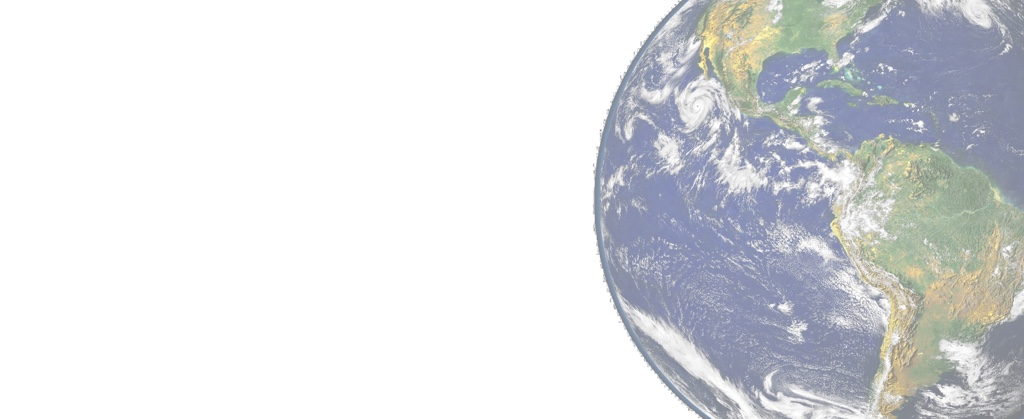
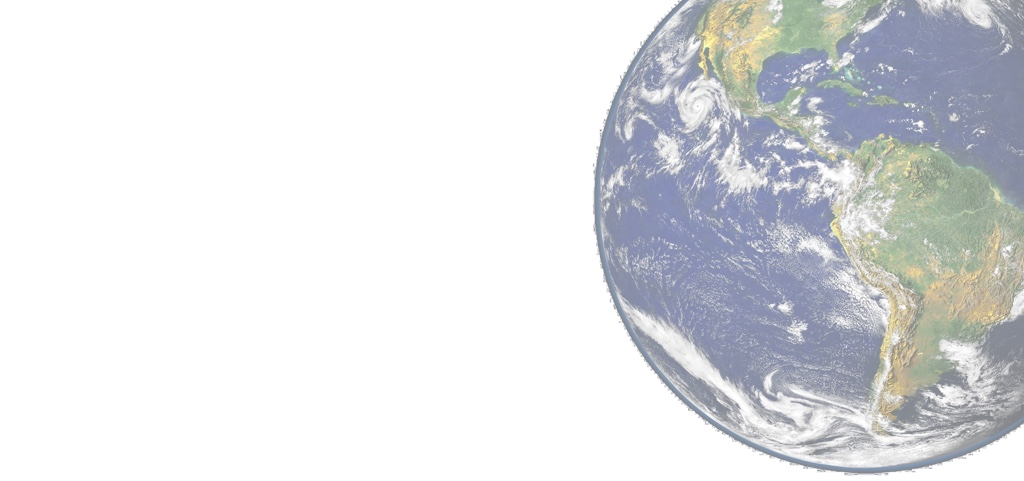
dealing with the globe

Changed region(s): [[0.5625, 0.0, 1.0, 1.0], [0.9375, 0.0, 1.0, 0.1241]]

diff --git a/css/style.css b/css/style.css
@@ -128,8 +128,8 @@ p {
 header nav {
   background: white;
   width: 100%;
-  height: 40px; 
-}
+/*  height: 40px; 
+*/}
 
 header .fixed-nav-bar {
   position: fixed;
@@ -188,10 +188,10 @@ header .hero {
   height: 500px;
   width: 100%;
   background: url("../assets/ladyjustice.jpg") no-repeat center center fixed;
-  -webkit-background-size: cover;
-  -moz-background-size: cover;
-  -o-background-size: cover;
-  background-size: cover;
+  -webkit-background-size: contain;
+  -moz-background-size: contain;
+  -o-background-size: contain;
+  background-size: contain;
 }
 
 header .hero h1 {
